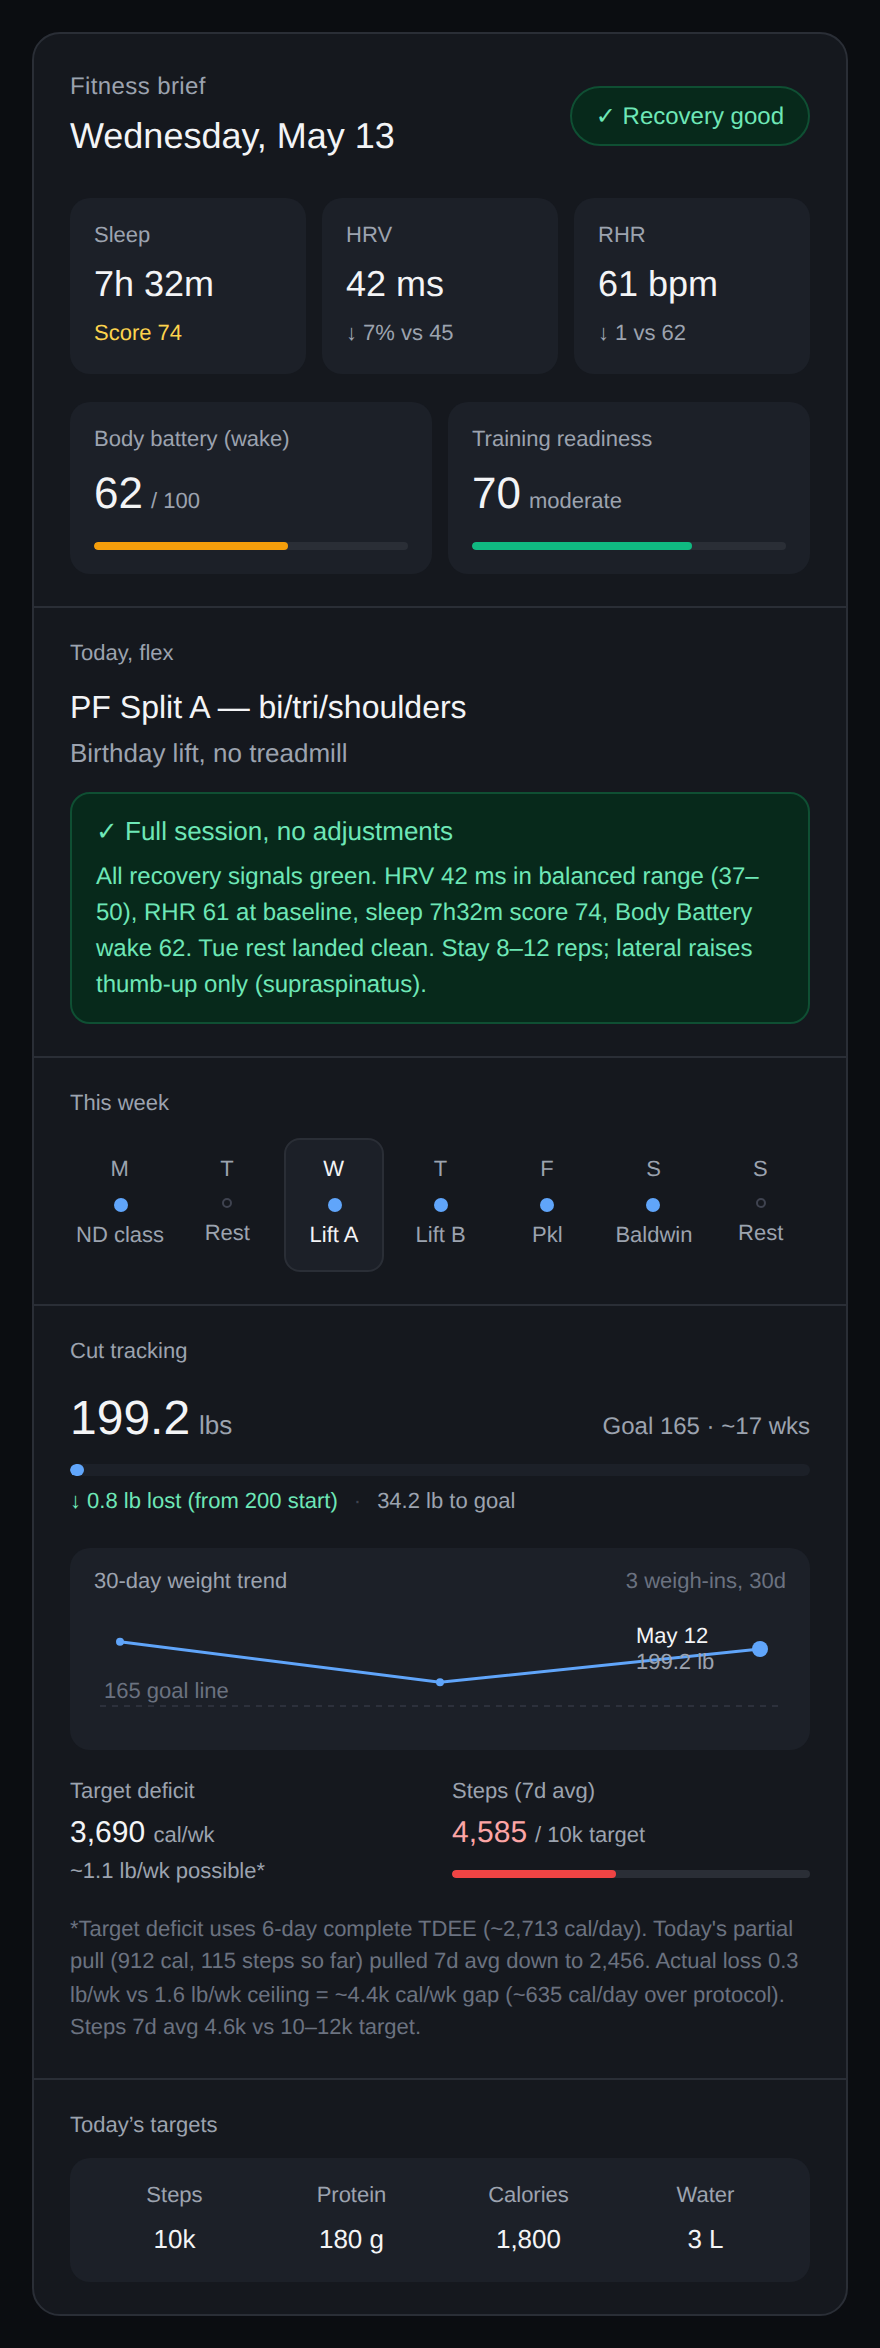
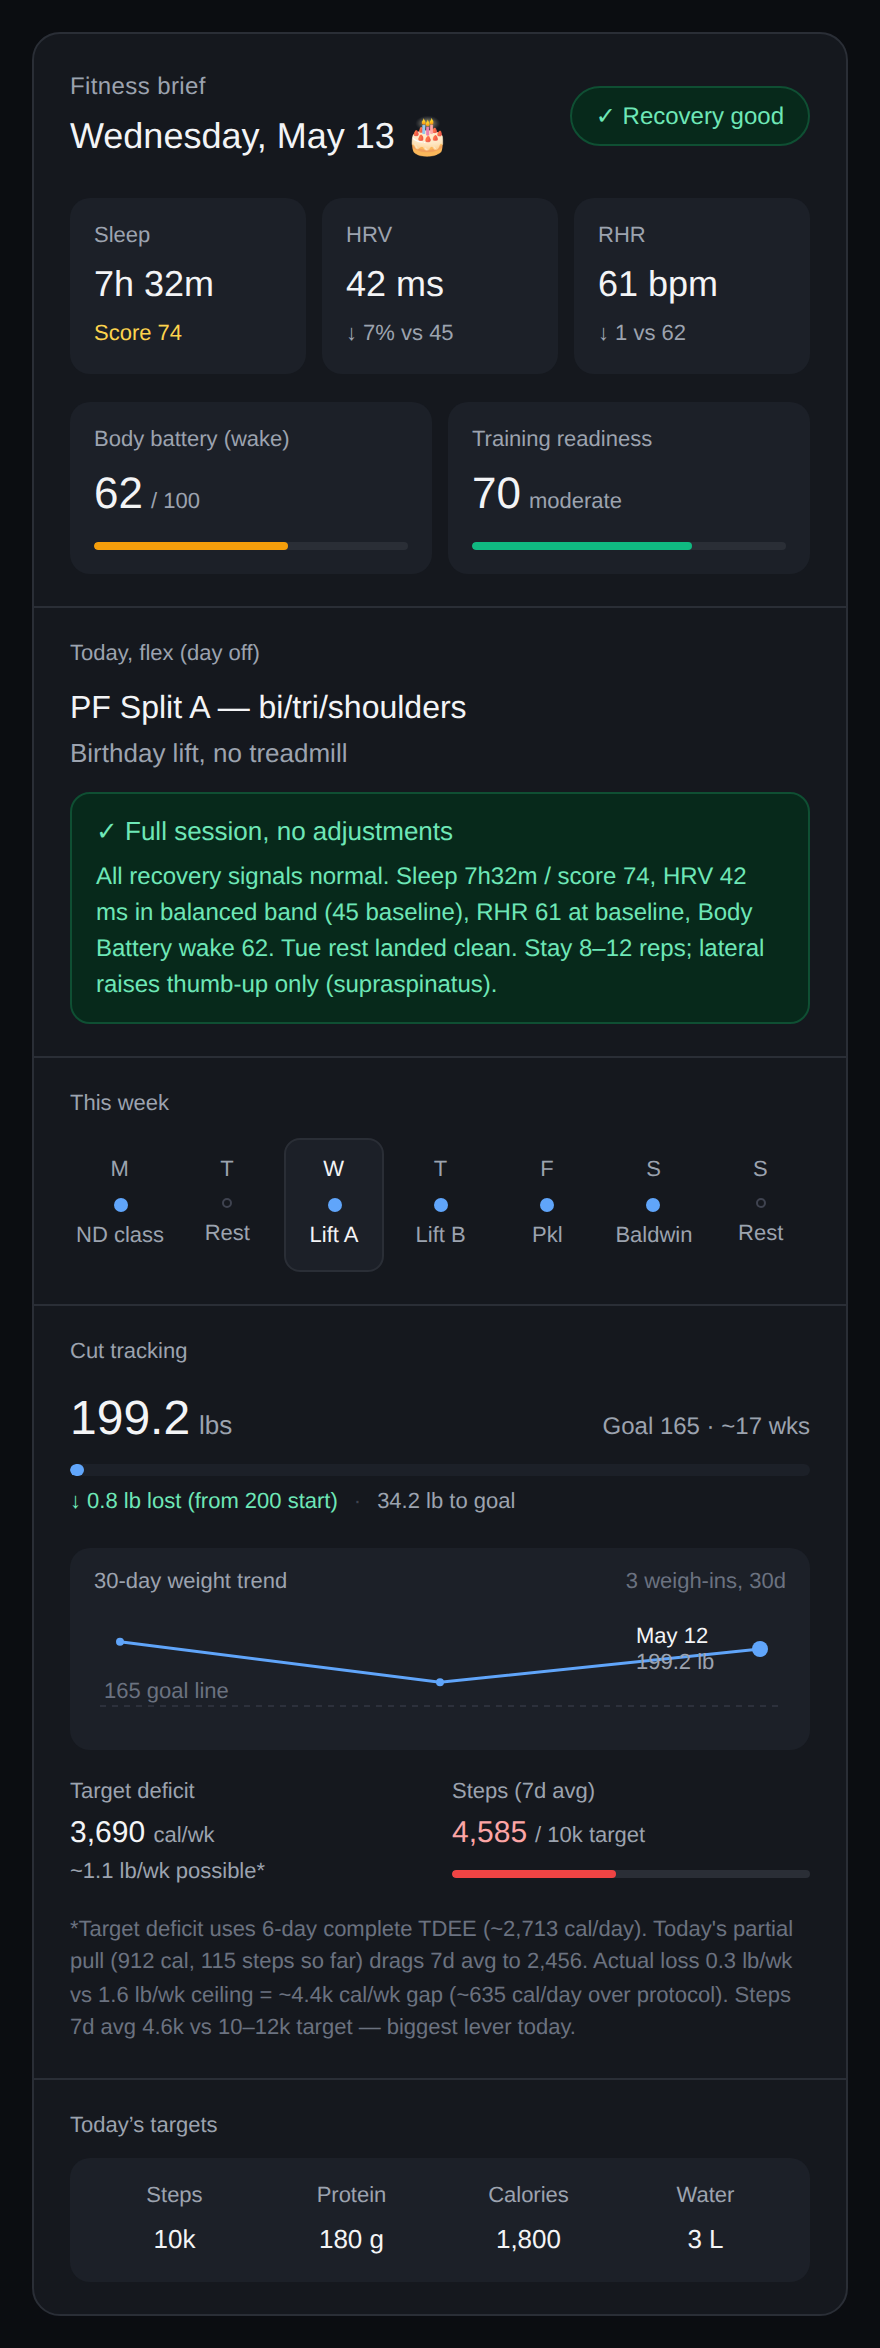
Deploy fitness brief: 2026-05-13

Changed region(s): [[0.0614, 0.8083, 0.8898, 0.8705], [0.092, 0.3731, 0.8591, 0.4353], [0.4602, 0.0311, 0.5216, 0.0622]]

diff --git a/fitness/2026-05-13-brief.html b/fitness/2026-05-13-brief.html
@@ -2,7 +2,7 @@
 <html lang="en">
 <head>
 <meta charset="utf-8">
-<title>Fitness Brief — Wednesday, May 13</title>
+<title>Fitness Brief — Wednesday, May 13 🎂</title>
 <style>
   /* Reset + base */
   *, *::before, *::after { box-sizing: border-box; margin: 0; padding: 0; }
@@ -309,7 +309,7 @@
   <div class="header">
     <div>
       <div class="header-label">Fitness brief</div>
-      <div class="header-date">Wednesday, May 13</div>
+      <div class="header-date">Wednesday, May 13 🎂</div>
     </div>
     <div class="pill pill-good">
       ✓
@@ -367,7 +367,7 @@
 
   
   <div class="section">
-    <div class="section-label">Today, flex</div>
+    <div class="section-label">Today, flex (day off)</div>
     <div class="session-name">PF Split A — bi/tri/shoulders</div>
     <div class="session-sub">Birthday lift, no treadmill</div>
     <div class="adjustment adjustment-good">
@@ -375,7 +375,7 @@
         ✓
         Full session, no adjustments
       </div>
-      <div class="adjustment-why">All recovery signals green. HRV 42 ms in balanced range (37–50), RHR 61 at baseline, sleep 7h32m score 74, Body Battery wake 62. Tue rest landed clean. Stay 8–12 reps; lateral raises thumb-up only (supraspinatus).</div>
+      <div class="adjustment-why">All recovery signals normal. Sleep 7h32m / score 74, HRV 42 ms in balanced band (45 baseline), RHR 61 at baseline, Body Battery wake 62. Tue rest landed clean. Stay 8–12 reps; lateral raises thumb-up only (supraspinatus).</div>
     </div>
   </div>
 
@@ -491,7 +491,7 @@
       </div>
     </div>
 
-    <div class="footnote">*Target deficit uses 6-day complete TDEE (~2,713 cal/day). Today's partial pull (912 cal, 115 steps so far) pulled 7d avg down to 2,456. Actual loss 0.3 lb/wk vs 1.6 lb/wk ceiling = ~4.4k cal/wk gap (~635 cal/day over protocol). Steps 7d avg 4.6k vs 10–12k target.</div>
+    <div class="footnote">*Target deficit uses 6-day complete TDEE (~2,713 cal/day). Today's partial pull (912 cal, 115 steps so far) drags 7d avg to 2,456. Actual loss 0.3 lb/wk vs 1.6 lb/wk ceiling = ~4.4k cal/wk gap (~635 cal/day over protocol). Steps 7d avg 4.6k vs 10–12k target — biggest lever today.</div>
   </div>
 
   

diff --git a/fitness/index.html b/fitness/index.html
@@ -2,7 +2,7 @@
 <html lang="en">
 <head>
 <meta charset="utf-8">
-<title>Fitness Brief — Wednesday, May 13</title>
+<title>Fitness Brief — Wednesday, May 13 🎂</title>
 <style>
   /* Reset + base */
   *, *::before, *::after { box-sizing: border-box; margin: 0; padding: 0; }
@@ -309,7 +309,7 @@
   <div class="header">
     <div>
       <div class="header-label">Fitness brief</div>
-      <div class="header-date">Wednesday, May 13</div>
+      <div class="header-date">Wednesday, May 13 🎂</div>
     </div>
     <div class="pill pill-good">
       ✓
@@ -367,7 +367,7 @@
 
   
   <div class="section">
-    <div class="section-label">Today, flex</div>
+    <div class="section-label">Today, flex (day off)</div>
     <div class="session-name">PF Split A — bi/tri/shoulders</div>
     <div class="session-sub">Birthday lift, no treadmill</div>
     <div class="adjustment adjustment-good">
@@ -375,7 +375,7 @@
         ✓
         Full session, no adjustments
       </div>
-      <div class="adjustment-why">All recovery signals green. HRV 42 ms in balanced range (37–50), RHR 61 at baseline, sleep 7h32m score 74, Body Battery wake 62. Tue rest landed clean. Stay 8–12 reps; lateral raises thumb-up only (supraspinatus).</div>
+      <div class="adjustment-why">All recovery signals normal. Sleep 7h32m / score 74, HRV 42 ms in balanced band (45 baseline), RHR 61 at baseline, Body Battery wake 62. Tue rest landed clean. Stay 8–12 reps; lateral raises thumb-up only (supraspinatus).</div>
     </div>
   </div>
 
@@ -491,7 +491,7 @@
       </div>
     </div>
 
-    <div class="footnote">*Target deficit uses 6-day complete TDEE (~2,713 cal/day). Today's partial pull (912 cal, 115 steps so far) pulled 7d avg down to 2,456. Actual loss 0.3 lb/wk vs 1.6 lb/wk ceiling = ~4.4k cal/wk gap (~635 cal/day over protocol). Steps 7d avg 4.6k vs 10–12k target.</div>
+    <div class="footnote">*Target deficit uses 6-day complete TDEE (~2,713 cal/day). Today's partial pull (912 cal, 115 steps so far) drags 7d avg to 2,456. Actual loss 0.3 lb/wk vs 1.6 lb/wk ceiling = ~4.4k cal/wk gap (~635 cal/day over protocol). Steps 7d avg 4.6k vs 10–12k target — biggest lever today.</div>
   </div>
 
   

diff --git a/fitness/latest-brief.html b/fitness/latest-brief.html
@@ -2,7 +2,7 @@
 <html lang="en">
 <head>
 <meta charset="utf-8">
-<title>Fitness Brief — Wednesday, May 13</title>
+<title>Fitness Brief — Wednesday, May 13 🎂</title>
 <style>
   /* Reset + base */
   *, *::before, *::after { box-sizing: border-box; margin: 0; padding: 0; }
@@ -309,7 +309,7 @@
   <div class="header">
     <div>
       <div class="header-label">Fitness brief</div>
-      <div class="header-date">Wednesday, May 13</div>
+      <div class="header-date">Wednesday, May 13 🎂</div>
     </div>
     <div class="pill pill-good">
       ✓
@@ -367,7 +367,7 @@
 
   
   <div class="section">
-    <div class="section-label">Today, flex</div>
+    <div class="section-label">Today, flex (day off)</div>
     <div class="session-name">PF Split A — bi/tri/shoulders</div>
     <div class="session-sub">Birthday lift, no treadmill</div>
     <div class="adjustment adjustment-good">
@@ -375,7 +375,7 @@
         ✓
         Full session, no adjustments
       </div>
-      <div class="adjustment-why">All recovery signals green. HRV 42 ms in balanced range (37–50), RHR 61 at baseline, sleep 7h32m score 74, Body Battery wake 62. Tue rest landed clean. Stay 8–12 reps; lateral raises thumb-up only (supraspinatus).</div>
+      <div class="adjustment-why">All recovery signals normal. Sleep 7h32m / score 74, HRV 42 ms in balanced band (45 baseline), RHR 61 at baseline, Body Battery wake 62. Tue rest landed clean. Stay 8–12 reps; lateral raises thumb-up only (supraspinatus).</div>
     </div>
   </div>
 
@@ -491,7 +491,7 @@
       </div>
     </div>
 
-    <div class="footnote">*Target deficit uses 6-day complete TDEE (~2,713 cal/day). Today's partial pull (912 cal, 115 steps so far) pulled 7d avg down to 2,456. Actual loss 0.3 lb/wk vs 1.6 lb/wk ceiling = ~4.4k cal/wk gap (~635 cal/day over protocol). Steps 7d avg 4.6k vs 10–12k target.</div>
+    <div class="footnote">*Target deficit uses 6-day complete TDEE (~2,713 cal/day). Today's partial pull (912 cal, 115 steps so far) drags 7d avg to 2,456. Actual loss 0.3 lb/wk vs 1.6 lb/wk ceiling = ~4.4k cal/wk gap (~635 cal/day over protocol). Steps 7d avg 4.6k vs 10–12k target — biggest lever today.</div>
   </div>
 
   
